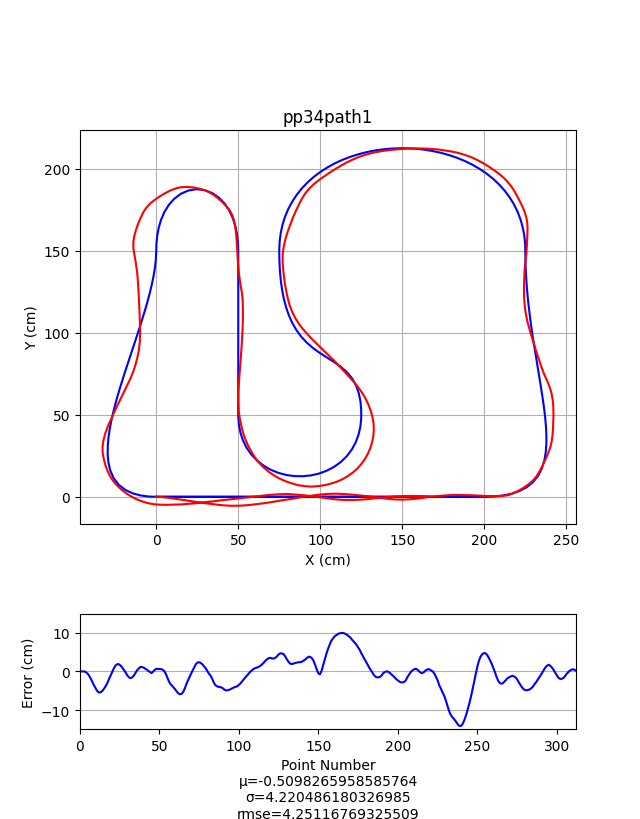
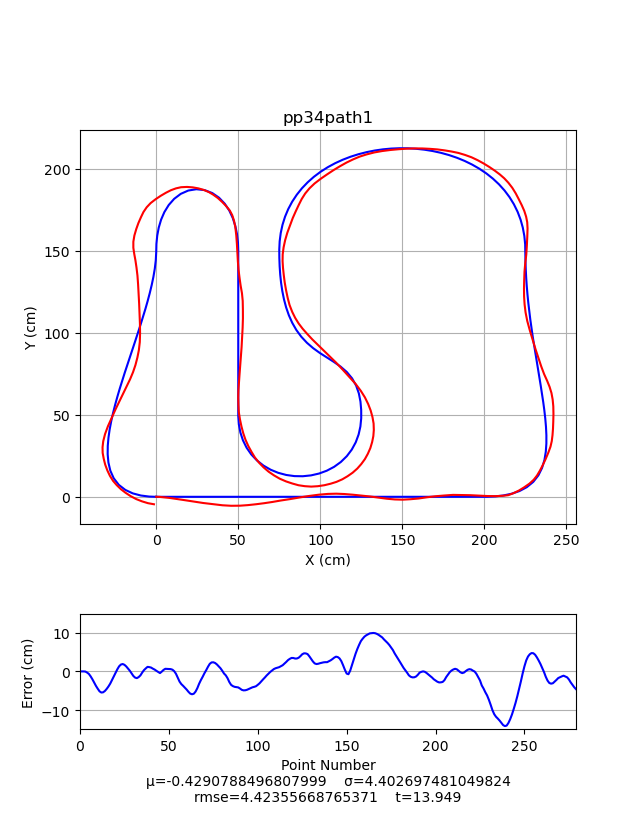
run new dataAnalzer on PP, fix refPath2

diff --git a/scripts/dataAnalyzer.py b/scripts/dataAnalyzer.py
@@ -55,7 +55,9 @@ for telemNum in range(1,len(sys.argv)):
     #axs[0].set_xlim(-61, 305)
     #axs[0].set_ylim(-61, 305)
 
-    path = csvToColumns('paths/refPath1.csv')
+    pathId = str(sys.argv[telemNum])[-5]
+
+    path = csvToColumns('paths/refPath' + str(pathId) + '.csv')
 
     robotFull = csvToColumns(str(sys.argv[telemNum]))
 
